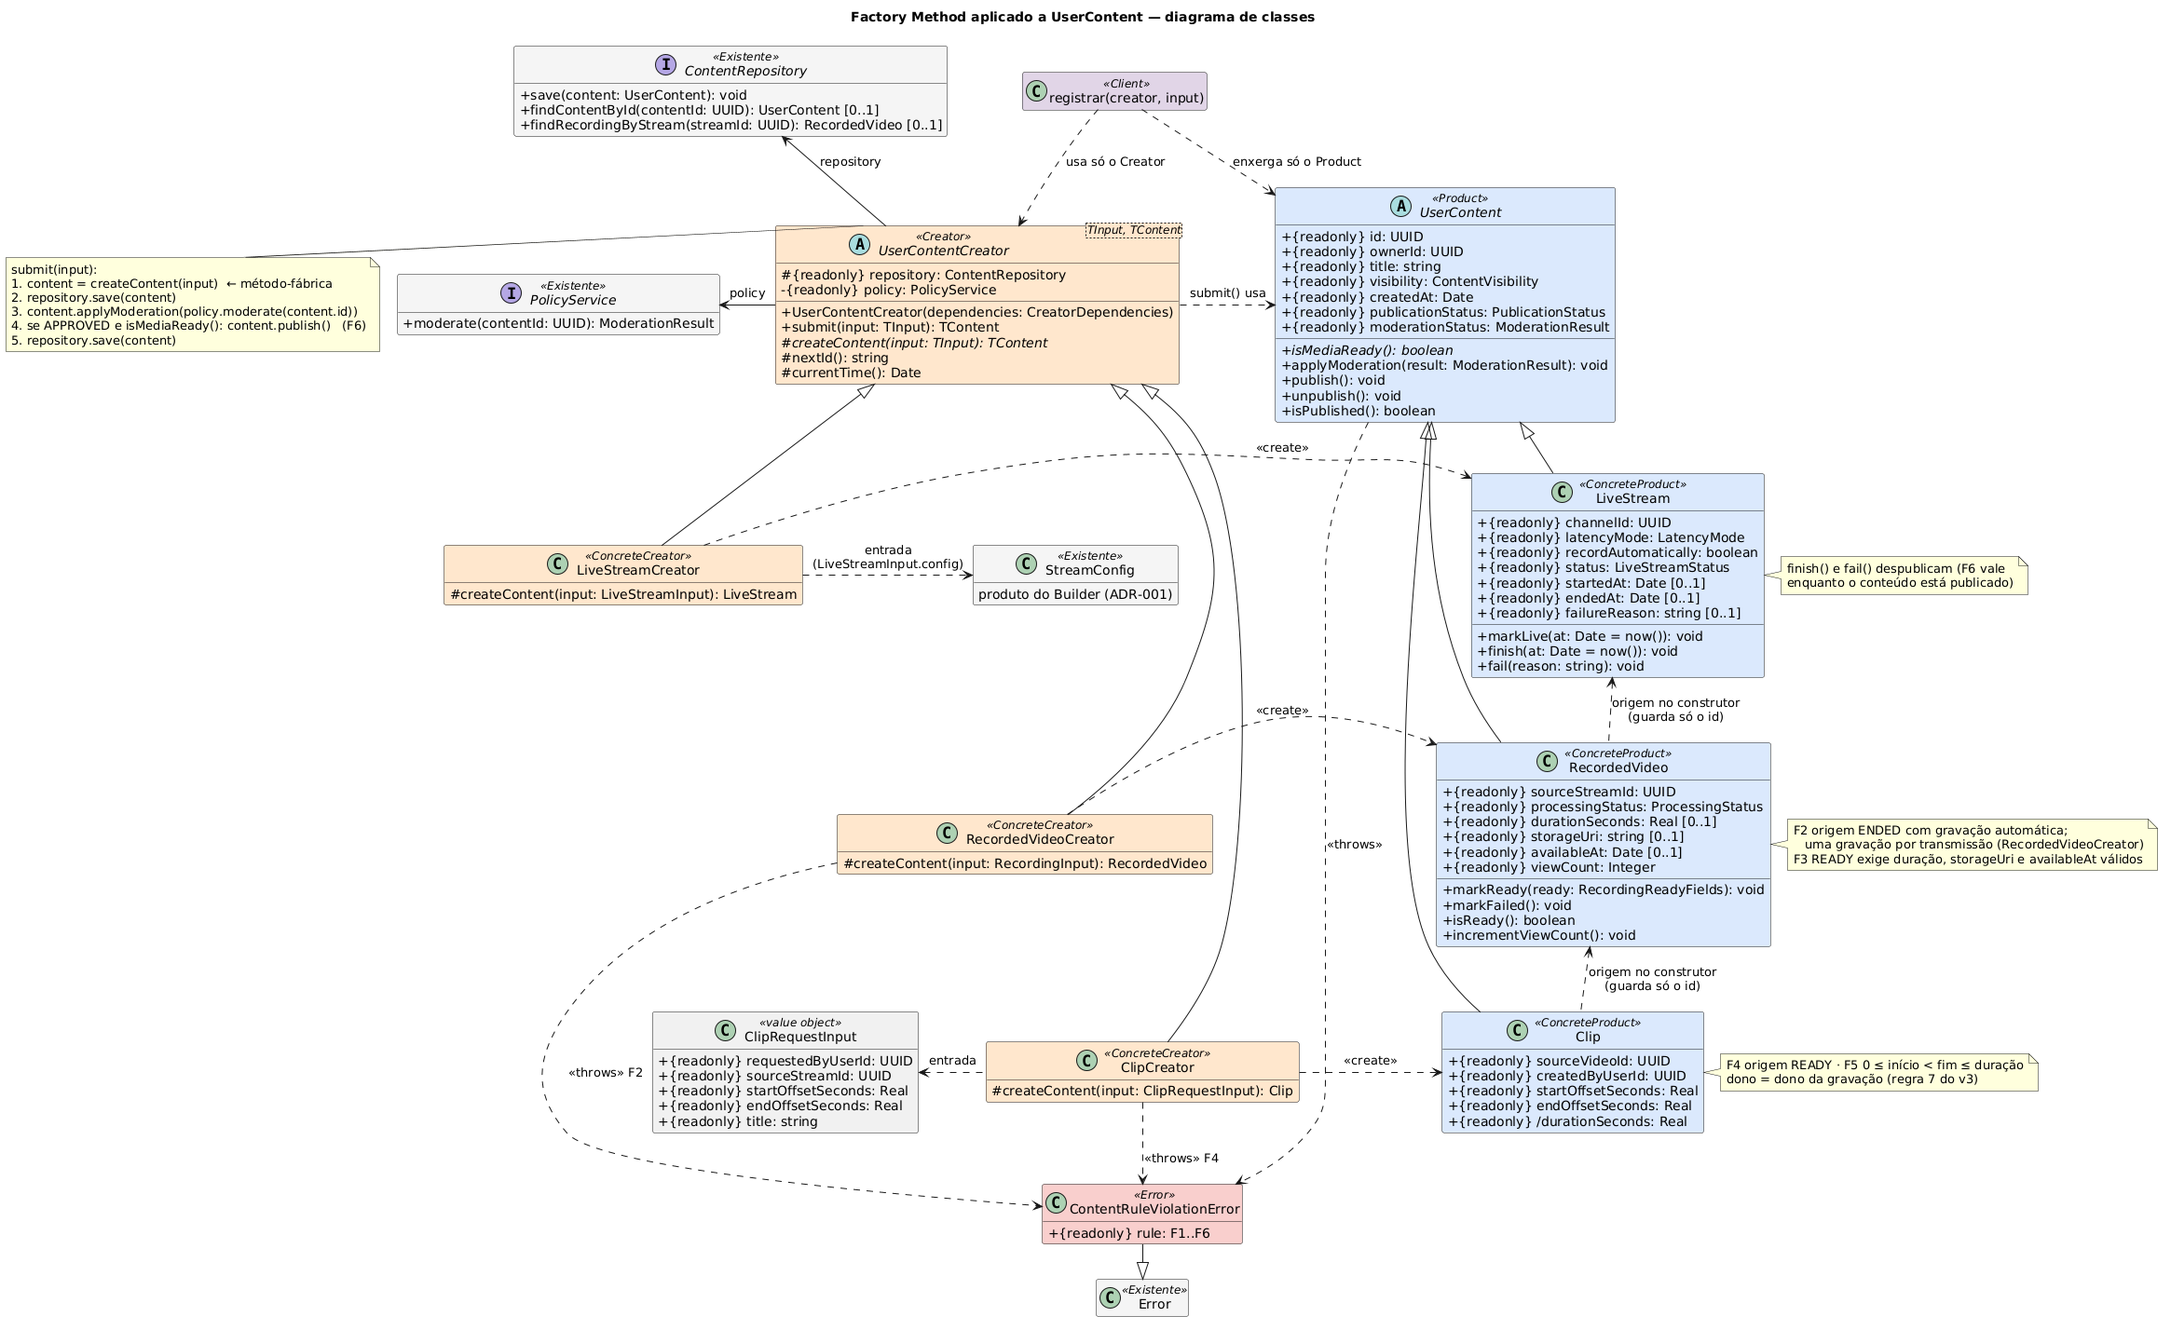
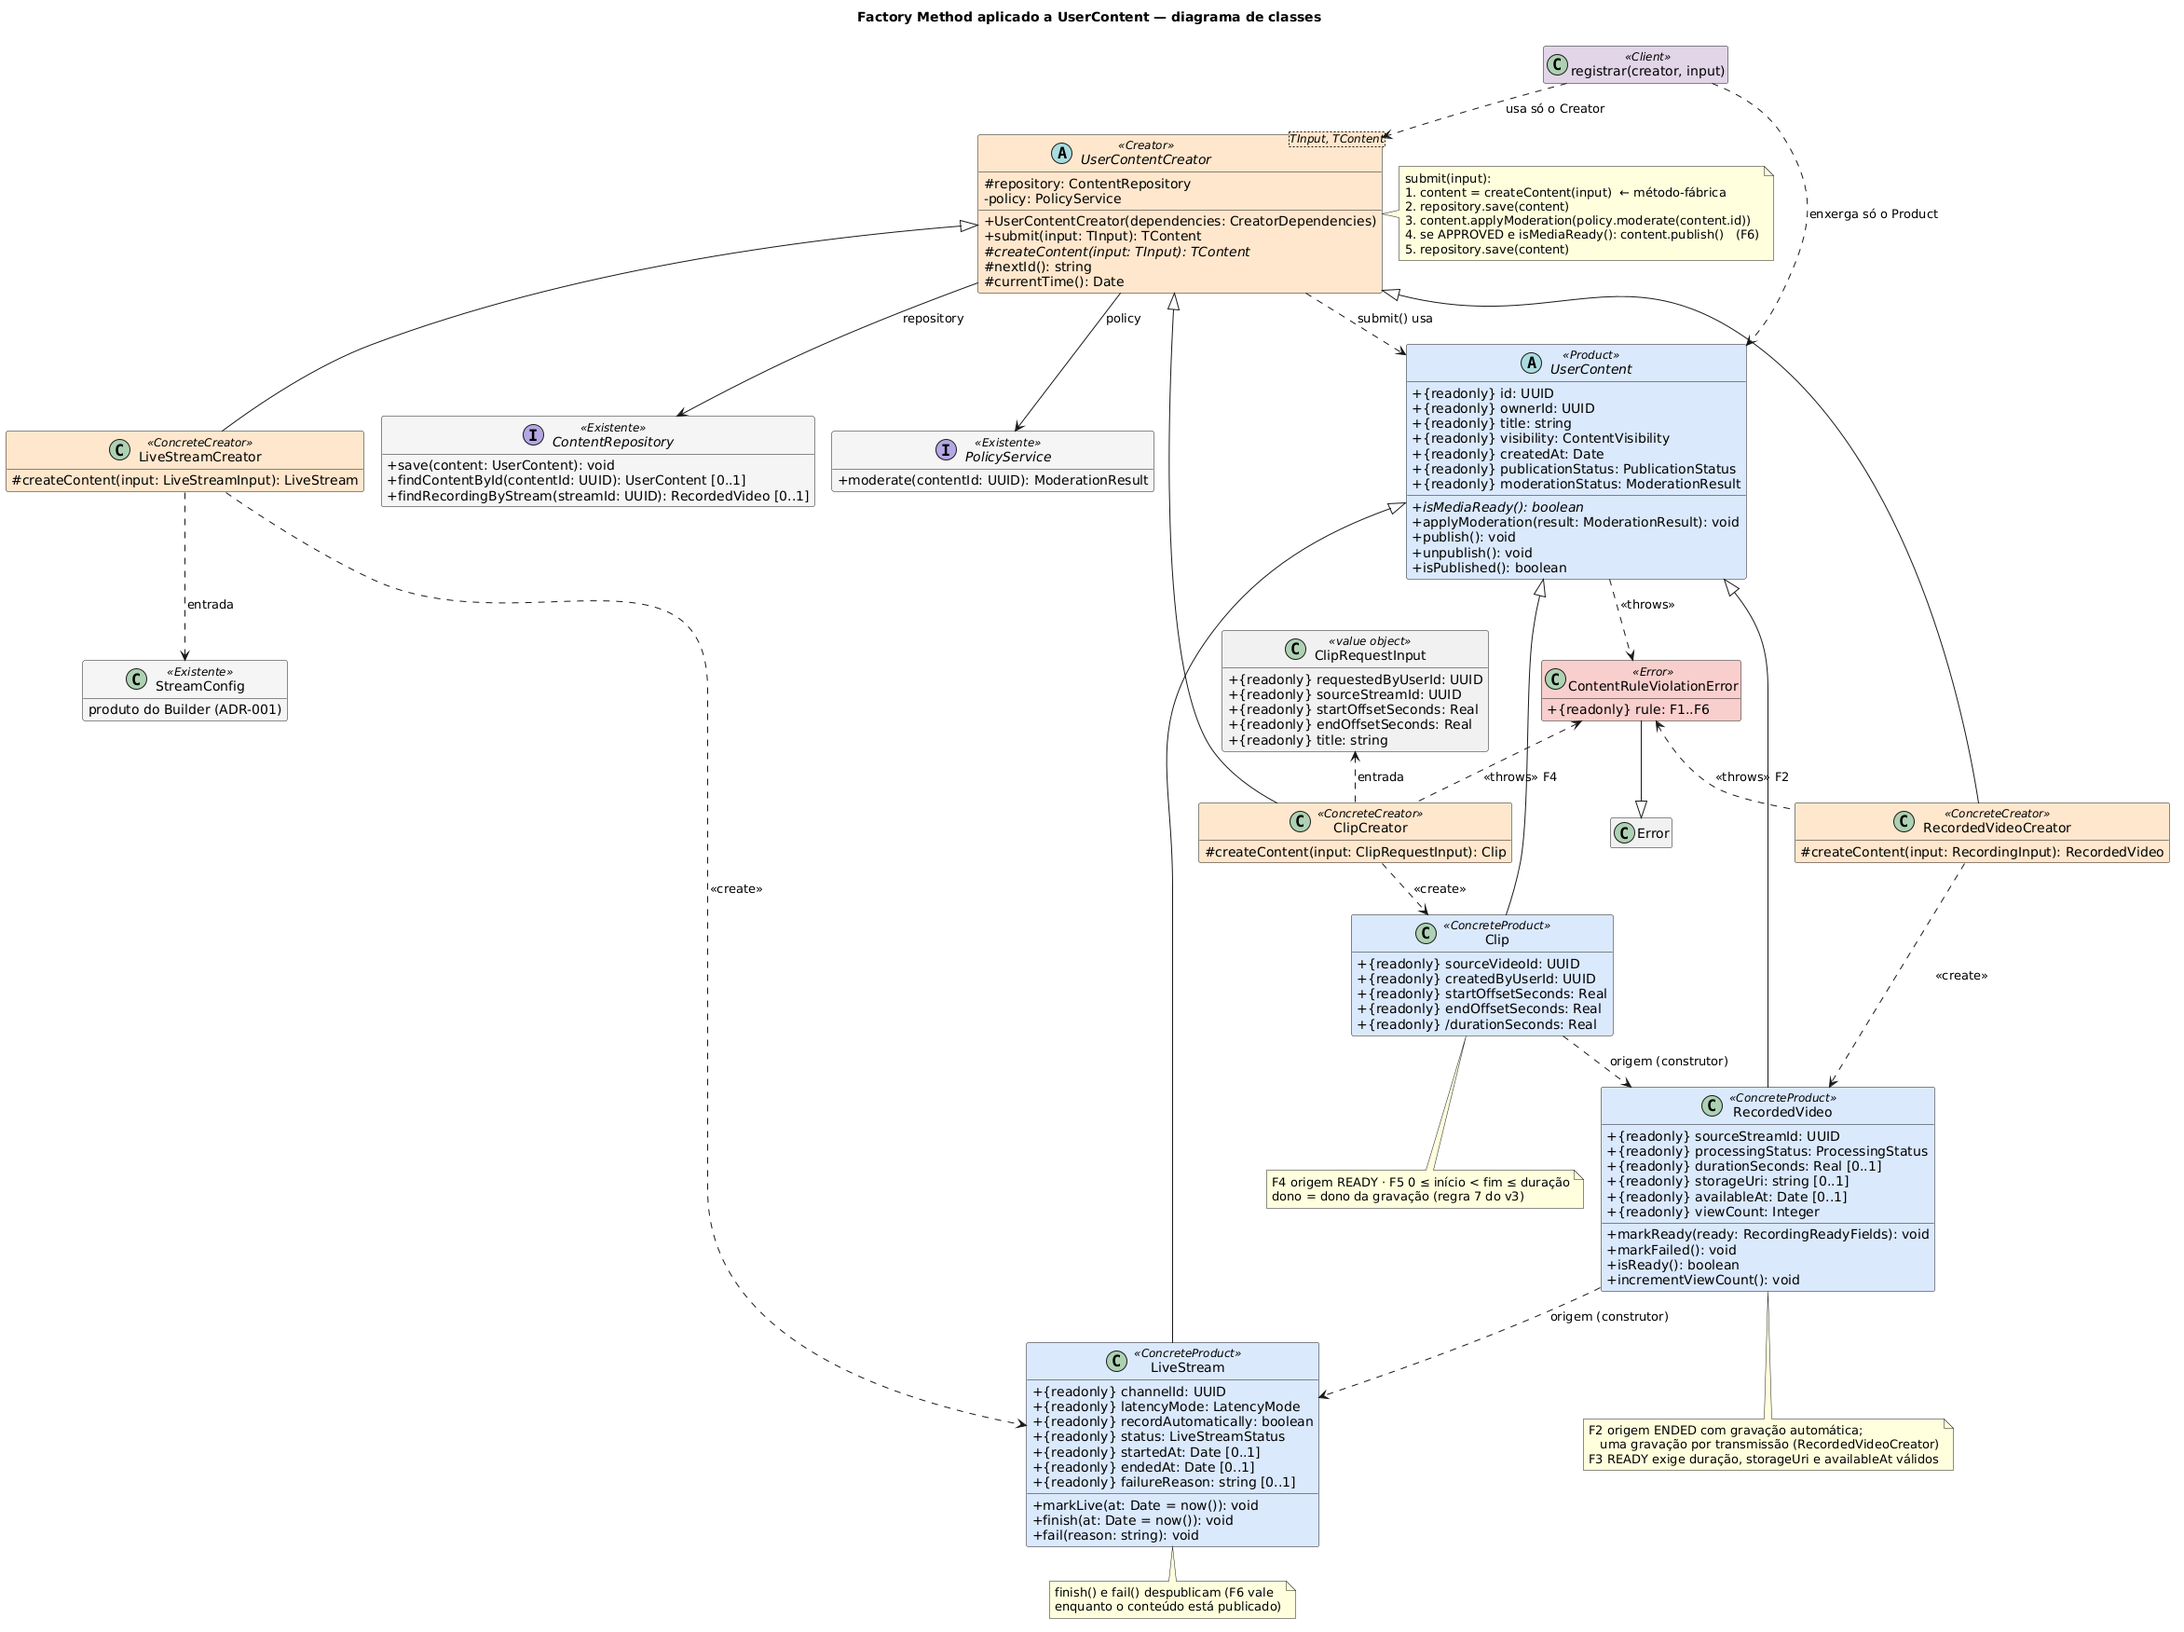
docs(subequipe-01): restaurar a organizacao original dos diagramas do factory method
Os dois diagramas voltam a ter a disposicao e a organizacao da versao de
Matheus Lemes Amaral, mantendo so as correcoes de conteudo:

- classes: o layout de colunas paralelas foi desfeito; ficam a origem como
  dependencia de construcao, a heranca de Error e o <<throws>> dos
  criadores (F2, F4), o construtor do Creator, ClipRequestInput e o
  {readonly} uniforme. Duas ligacoes novas sao escritas no sentido inverso
  (A <.. B), equivalente em UML, porque nesse sentido o layout automatico
  fica o mais proximo do original;
- sequencia: os grupos "metodo-fabrica" e "operacao comum" voltam; dentro
  do primeiro, createContent e chamada do ClipCreator a si mesmo, com
  ativacao aninhada. Continuam o erro propagado pelo criador, o opt, a
  nota presa a moderate e os campos reais de new Clip. A numeracao (17
  mensagens) nao muda.

Paginas 1.1.1.3 e 1.1.1.4, versao 1.10 do README e quadro de
participacoes deixam de citar as mudancas visuais desfeitas e passam a
apontar para o PR #6.

diff --git a/docs/Base/1.2.ParticipacoesPadroesDeProjeto.md b/docs/Base/1.2.ParticipacoesPadroesDeProjeto.md
@@ -12,7 +12,7 @@ Os nomes já estão organizados por subequipe. As contribuições, avaliações 
 | --- | --- | --- | --- |
 | Lucas Andrade Zanetti | Modelagem do Builder para `StreamConfig`: diagrama de classes antes/depois (PlantUML), ADR-001 com alternativas e regras de validação, doze evidências arquivadas; contexto, escolha e justificativa no relatório da subequipe; iniciativa extra: medidor, script Python e relatório do benchmark de tempo e memória | A avaliar | [Modelagem](/Base/Relatórios/1.1.1.SubEquipe_01/1.1.1.1.ModelagemBuilder.md) · [ADR-001](/Base/Relatórios/1.1.1.SubEquipe_01/ADR/ADR-001-builder-stream-config.md) · PR `docs/subequipe-01-modelagem-builder` · [Benchmark](/Base/Relatórios/1.1.1.SubEquipe_01/1.1.1.7.BenchmarkBuilder.md) |
 | Matheus Lemes Amaral | Factory Method para a hierarquia `UserContent`: diagramas de classes e de sequência (PlantUML), ADR-002 com alternativas, decisões e regras F1–F6, evidências do v3; implementação dos seis participantes com 78 testes, demo e cenário de benchmark no repositório de código; seções do padrão no relatório da subequipe. Revisão do diagrama de classes do Builder (PR #2) | A avaliar | [Modelagem](/Base/Relatórios/1.1.1.SubEquipe_01/1.1.1.3.ModelagemFactoryMethod.md) · [Sequência](/Base/Relatórios/1.1.1.SubEquipe_01/1.1.1.4.SequenciaFactoryMethod.md) · [ADR-002](/Base/Relatórios/1.1.1.SubEquipe_01/ADR/ADR-002-factory-method-user-content.md) · [PR #2 do código](https://github.com/Bappoz/g6-streaming-entrega03-subgrupo01-codigo/pull/2) · [revisão do PR #2](https://github.com/UnBArqDsw2026-2-Turma01/2026.2-T01-_G6_ProjetoStreamingVideo_Entrega_03/pull/2#pullrequestreview-5554232012) · PR `docs/subequipe-01-factory-method` |
-| Pedro Druck Montalvão Reis | Factory Method no código: correções nos ConcreteCreators a partir da revisão do PR #2 do código (gravação `FAILED` deixa de bloquear a transmissão; `submit` repetido após falha da moderação testado e documentado; perfil de vídeo do `StreamConfig` declarado fora da `LiveStream`), com 6 testes novos; resolução dos conflitos e integração do PR #3 de documentação; referências do Factory Method, versionamentos, registro dos revisores e quadro de participações do relatório; diagramas de classes e de sequência do Factory Method alinhados ao GoF e ao código (versão 1.2); seção do Factory Method na página de vídeo; conferência dos links internos e externos da subequipe | A avaliar | [PR #4 do código](https://github.com/Bappoz/g6-streaming-entrega03-subgrupo01-codigo/pull/4) · [`a48982e`](https://github.com/UnBArqDsw2026-2-Turma01/2026.2-T01-_G6_ProjetoStreamingVideo_Entrega_03/commit/a48982e) (conflitos do PR #3) · [`8f167c6`](https://github.com/UnBArqDsw2026-2-Turma01/2026.2-T01-_G6_ProjetoStreamingVideo_Entrega_03/commit/8f167c6) · [`c9c646b`](https://github.com/UnBArqDsw2026-2-Turma01/2026.2-T01-_G6_ProjetoStreamingVideo_Entrega_03/commit/c9c646b) · [`c4d3a1d`](https://github.com/UnBArqDsw2026-2-Turma01/2026.2-T01-_G6_ProjetoStreamingVideo_Entrega_03/commit/c4d3a1d) · [`70283e0`](https://github.com/UnBArqDsw2026-2-Turma01/2026.2-T01-_G6_ProjetoStreamingVideo_Entrega_03/commit/70283e0) · [`232d463`](https://github.com/UnBArqDsw2026-2-Turma01/2026.2-T01-_G6_ProjetoStreamingVideo_Entrega_03/commit/232d463) · [`3101d71`](https://github.com/UnBArqDsw2026-2-Turma01/2026.2-T01-_G6_ProjetoStreamingVideo_Entrega_03/commit/3101d71) · [`911510e`](https://github.com/UnBArqDsw2026-2-Turma01/2026.2-T01-_G6_ProjetoStreamingVideo_Entrega_03/commit/911510e) |
+| Pedro Druck Montalvão Reis | Factory Method no código: correções nos ConcreteCreators a partir da revisão do PR #2 do código (gravação `FAILED` deixa de bloquear a transmissão; `submit` repetido após falha da moderação testado e documentado; perfil de vídeo do `StreamConfig` declarado fora da `LiveStream`), com 6 testes novos; resolução dos conflitos e integração do PR #3 de documentação; referências do Factory Method, versionamentos, registro dos revisores e quadro de participações do relatório; diagramas de classes e de sequência do Factory Method alinhados ao GoF e ao código (versão 1.2); seção do Factory Method na página de vídeo; conferência dos links internos e externos da subequipe | A avaliar | [PR #4 do código](https://github.com/Bappoz/g6-streaming-entrega03-subgrupo01-codigo/pull/4) · [`a48982e`](https://github.com/UnBArqDsw2026-2-Turma01/2026.2-T01-_G6_ProjetoStreamingVideo_Entrega_03/commit/a48982e) (conflitos do PR #3) · [`8f167c6`](https://github.com/UnBArqDsw2026-2-Turma01/2026.2-T01-_G6_ProjetoStreamingVideo_Entrega_03/commit/8f167c6) · [`c9c646b`](https://github.com/UnBArqDsw2026-2-Turma01/2026.2-T01-_G6_ProjetoStreamingVideo_Entrega_03/commit/c9c646b) · [`c4d3a1d`](https://github.com/UnBArqDsw2026-2-Turma01/2026.2-T01-_G6_ProjetoStreamingVideo_Entrega_03/commit/c4d3a1d) · [`70283e0`](https://github.com/UnBArqDsw2026-2-Turma01/2026.2-T01-_G6_ProjetoStreamingVideo_Entrega_03/commit/70283e0) · [`232d463`](https://github.com/UnBArqDsw2026-2-Turma01/2026.2-T01-_G6_ProjetoStreamingVideo_Entrega_03/commit/232d463) · [PR #6](https://github.com/UnBArqDsw2026-2-Turma01/2026.2-T01-_G6_ProjetoStreamingVideo_Entrega_03/pull/6) |
 | Heitor Macedo Ricardo | Builder: `StreamConfigDirector` com presets, testes e `demo.ts` no repositório de código; diagrama de sequência do Builder (PlantUML); seção Execução do relatório da subequipe | A avaliar | [Sequência](/Base/Relatórios/1.1.1.SubEquipe_01/1.1.1.2.SequenciaBuilder.md) · [PR #1 do código](https://github.com/Bappoz/g6-streaming-entrega03-subgrupo01-codigo/pull/1) · PR `docs/subequipe-01-modelagem-builder` |
 
 ## SubEquipe_02 — Relatório

diff --git a/docs/Base/Relatórios/1.1.1.SubEquipe_01/1.1.1.4.SequenciaFactoryMethod.md b/docs/Base/Relatórios/1.1.1.SubEquipe_01/1.1.1.4.SequenciaFactoryMethod.md
@@ -19,7 +19,7 @@
 | 11–16 | **Operação comum do Creator**, a mesma para os três tipos: persistir, moderar pelo id, registrar o veredito, publicar só com `APPROVED` e mídia pronta (fragmento `opt`), persistir de novo. Se `moderate()` lançar erro, ele sobe e o clipe fica registrado como `PENDING` (nota do diagrama). | DF2, F6 (regra 8 do v3) |
 | 17 | O clipe volta ao Client como `UserContent`. | Product |
 
-A nota final do diagrama registra a diferença para os outros dois criadores: só o método-fábrica (mensagens 2–10) muda. No `LiveStreamCreator` ele é um `new LiveStream` a partir da `StreamConfig`; no `RecordedVideoCreator`, um `findContentById` da live seguido de `new RecordedVideo`. Nesses dois casos a mídia ainda não está pronta (`CREATED` e `PROCESSING`), então o conteúdo é registrado e moderado, mas a mensagem `publish()` não acontece (DF5).
+A nota final do diagrama registra a diferença para os outros dois criadores: só o grupo do método-fábrica muda. No `LiveStreamCreator` ele é um `new LiveStream` a partir da `StreamConfig`; no `RecordedVideoCreator`, um `findContentById` da live seguido de `new RecordedVideo`. Nesses dois casos a mídia ainda não está pronta (`CREATED` e `PROCESSING`), então o conteúdo é registrado e moderado, mas a mensagem `publish()` não acontece (DF5).
 
 ## Correspondência com o código
 
@@ -37,9 +37,9 @@ A ordem `save → moderate → save` não é só desenho: um teste registra as c
 
 ## Senso crítico
 
-- **Um caso, não três.** O clipe foi escolhido porque tem os dois caminhos de erro e a publicação imediata; desenhar os outros dois repetiria a operação comum.
+- **Um caso, não três.** O clipe foi escolhido porque tem os dois caminhos de erro e a publicação imediata; desenhar os outros dois repetiria o grupo da operação comum.
 - **O fluxo assíncrono do v3 não aparece.** No modelo da Entrega 02, o pedido feito antes de a gravação ficar pronta espera em `WAITING_RECORDING`; aqui ele é recusado (DF8). A espera é do `ClipService`, não do padrão de criação.
-- **Template Method dentro do Factory Method.** A operação comum (mensagens 11–16) é um Template Method sobre o método-fábrica. O GoF registra essa combinação como frequente, mas ela deixa dois padrões no mesmo método e merece ser dita na apresentação.
+- **Template Method dentro do Factory Method.** O grupo "operação comum" é um Template Method sobre o método-fábrica. O GoF registra essa combinação como frequente, mas ela deixa dois padrões no mesmo método e merece ser dita na apresentação.
 
 ## Histórico de versões
 
@@ -47,4 +47,4 @@ A ordem `save → moderate → save` não é só desenho: um teste registra as c
 | --- | --- | --- | --- | --- |
 | 1.0 | 16/10/2026 | [@1emes](https://github.com/1emes) | Diagrama de sequência do Factory Method (`ClipCreator.submit`) | A preencher |
 | 1.1 | 16/10/2026 | [@1emes](https://github.com/1emes) | Caminhos de erro F4 e F5 como fragmentos `break`, que encerram o fluxo antes da operação comum; nota sobre falha da moderação | A preencher |
-| 1.2 | 17/10/2026 | [@pedruck](https://github.com/pedruck) | Método-fábrica como mensagem do `ClipCreator` para si mesmo, com ativação aninhada, no lugar do bloco `group`; erro do construtor de `Clip` propagado pelo `ClipCreator`; `opt` no lugar do `alt` com operando vazio; nota da falha da moderação presa à mensagem `moderate`; `new Clip(fields)` como no código | A preencher |
+| 1.2 | 17/10/2026 | [@pedruck](https://github.com/pedruck) | Método-fábrica como mensagem do `ClipCreator` para si mesmo, com ativação aninhada, dentro do grupo do método-fábrica; erro do construtor de `Clip` propagado pelo `ClipCreator`; `opt` no lugar do `alt` com operando vazio; nota da falha da moderação presa à mensagem `moderate`; `new Clip(fields)` como no código | A preencher |

diff --git a/docs/Base/Relatórios/1.1.1.SubEquipe_01/1.1.1.3.ModelagemFactoryMethod.md b/docs/Base/Relatórios/1.1.1.SubEquipe_01/1.1.1.3.ModelagemFactoryMethod.md
@@ -22,7 +22,7 @@ No v3, `UserContent` já reúne o que os três tipos têm em comum (identidade, 
 
 *Figura 2 — Diagrama de classes do Factory Method, v1. Autoria: Matheus Lemes Amaral, 2026. Fonte editável: <a href="Base/Relatórios/1.1.1.SubEquipe_01/assets/factory-method/factory-method-classes-v1.puml" target="_blank" rel="noopener"><code>factory-method-classes-v1.puml</code></a> (PlantUML) · <a href="Base/Relatórios/1.1.1.SubEquipe_01/assets/factory-method/factory-method-classes-v1.svg" target="_blank" rel="noopener">SVG</a>.*
 
-O diagrama foi desenhado a partir do código implementado e é uma **projeção** dos participantes e relações principais: nomes de classes, métodos e visibilidades são os de `src/criacionais/factory-method/`; os tipos usam a notação de domínio do v3 (`UUID`, `Real`, `Integer`), e `{readonly}` marca as propriedades que o cliente só lê, sejam campos imutáveis ou getters sem setter, na mesma notação do diagrama do Builder. As duas hierarquias ficam lado a lado, como na estrutura do GoF: cada ConcreteCreator na mesma linha do ConcreteProduct que cria. A origem de `RecordedVideo` e `Clip` aparece como dependência de construção, porque o produto recebe a origem inteira no construtor mas guarda só o id. As classes marcadas `«Existente»` vêm do v3 (`ContentRepository`, `PolicyService`) ou do Builder (`StreamConfig`), sem alteração.
+O diagrama foi desenhado a partir do código implementado e é uma **projeção** dos participantes e relações principais: nomes de classes, métodos e visibilidades são os de `src/criacionais/factory-method/`; os tipos usam a notação de domínio do v3 (`UUID`, `Real`, `Integer`), e `{readonly}` marca as propriedades que o cliente só lê, sejam campos imutáveis ou getters sem setter, na mesma notação do diagrama do Builder. A origem de `RecordedVideo` e `Clip` aparece como dependência de construção, porque o produto recebe a origem inteira no construtor mas guarda só o id. As classes marcadas `«Existente»` vêm do v3 (`ContentRepository`, `PolicyService`) ou do Builder (`StreamConfig`), sem alteração.
 
 ### Participantes GoF → classes
 
@@ -91,4 +91,4 @@ Recortes feitos em 16/10/2026 a partir do diagrama v3 versionado no repositório
 | --- | --- | --- | --- | --- |
 | 1.0 | 16/10/2026 | [@1emes](https://github.com/1emes) | Modelagem do Factory Method, ADR-002 e evidências | A preencher |
 | 1.1 | 16/10/2026 | [@1emes](https://github.com/1emes) | Diagrama alinhado ao código revisado (F2 com live encerrada e gravação única, F3 com data válida, despublicação ao encerrar a live, getters marcados `{readOnly}`); texto qualifica o diagrama como projeção e o caminho comum como proposta | A preencher |
-| 1.2 | 17/10/2026 | [@pedruck](https://github.com/pedruck) | Hierarquias de criadores e produtos lado a lado; origem de `RecordedVideo` e `Clip` como dependência de construção (o código guarda só o id); `ContentRuleViolationError` herda de `Error` e é lançado também por `RecordedVideoCreator` (F2) e `ClipCreator` (F4); construtor do Creator e `ClipRequestInput` do v3; `{readonly}` uniforme e valor padrão `now()` | A preencher |
+| 1.2 | 17/10/2026 | [@pedruck](https://github.com/pedruck) | Origem de `RecordedVideo` e `Clip` como dependência de construção (o código guarda só o id); `ContentRuleViolationError` herda de `Error` e é lançado também por `RecordedVideoCreator` (F2) e `ClipCreator` (F4); construtor do Creator e `ClipRequestInput` do v3; `{readonly}` uniforme e valor padrão `now()` | A preencher |
